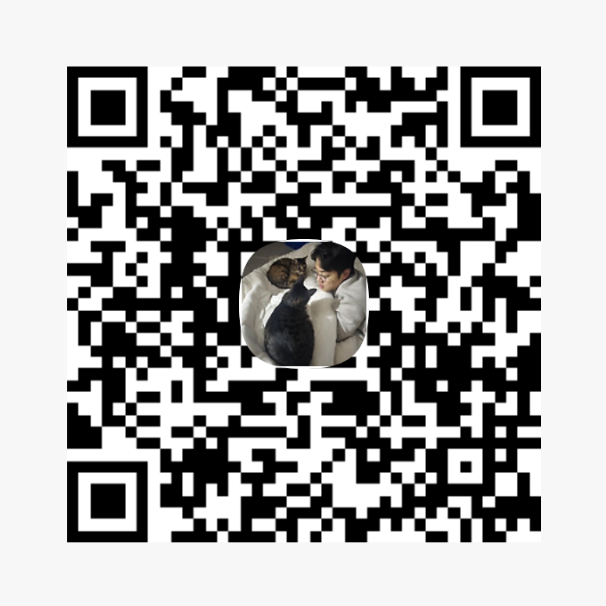
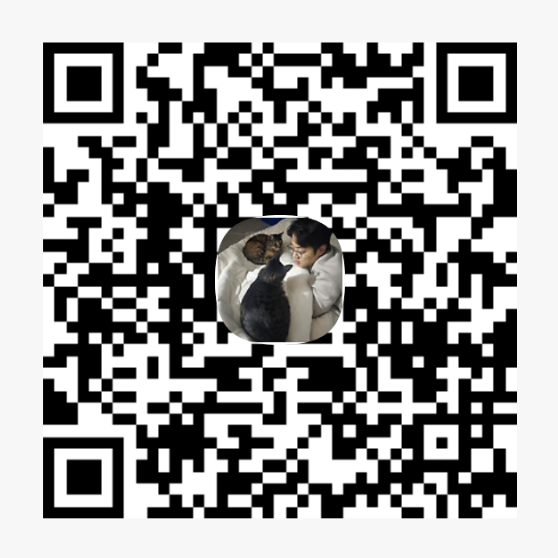
fix(app): QR 크롭 대칭 보정 + 릴리스 노트·새로워진 점에 QR 노출
- QR 에셋 재크롭: QR 중심 기준 정사각형 + 대칭 quiet zone
  (기존엔 한쪽으로 쏠리거나(카카오) 여백이 너무 빠듯(토스)했음)
- WhatsNewWindow: 노트 하단에 DonatePanel(QR) 인라인 — 기존 링크 대신 직접 노출,
  창 높이 560→680, 행 추가
- release.yml: GitHub 릴리스 노트 푸터에 카카오페이/토스 QR 이미지 표시
  (해당 tag 자산을 가리키는 raw URL로 고정)

diff --git a/Blink.App/Update/WhatsNewWindow.xaml b/Blink.App/Update/WhatsNewWindow.xaml
@@ -3,8 +3,9 @@
 <Window x:Class="Blink.App.Update.WhatsNewWindow"
         xmlns="http://schemas.microsoft.com/winfx/2006/xaml/presentation"
         xmlns:x="http://schemas.microsoft.com/winfx/2006/xaml"
+        xmlns:ctrl="clr-namespace:Blink.App.Controls"
         Title="Blink — 새로워진 점"
-        Width="520" Height="560"
+        Width="520" Height="680"
         WindowStyle="None" AllowsTransparency="True" Background="Transparent"
         ResizeMode="NoResize"
         WindowStartupLocation="CenterScreen"
@@ -81,6 +82,7 @@
                     <RowDefinition Height="Auto"/>
                     <RowDefinition Height="*"/>
                     <RowDefinition Height="Auto"/>
+                    <RowDefinition Height="Auto"/>
                 </Grid.RowDefinitions>
 
                 <!-- Title bar -->
@@ -124,16 +126,16 @@
                     </ScrollViewer>
                 </Border>
 
+                <!-- Donation: QR shown inline below the notes -->
+                <Border Grid.Row="3" Margin="28,16,28,0" Padding="0,16,0,0"
+                        BorderBrush="{DynamicResource Blink.Hairline}" BorderThickness="0,1,0,0">
+                    <ctrl:DonatePanel/>
+                </Border>
+
                 <!-- Footer -->
-                <Border Grid.Row="3" Margin="0,16,0,0" Background="{DynamicResource Blink.Surface2}"
+                <Border Grid.Row="4" Margin="0,16,0,0" Background="{DynamicResource Blink.Surface2}"
                         BorderBrush="{DynamicResource Blink.Hairline}" BorderThickness="0,1,0,0">
                     <Grid Margin="28,16">
-                        <TextBlock VerticalAlignment="Center" HorizontalAlignment="Left" FontSize="12.5">
-                            <Hyperlink Click="Donate_Click" TextDecorations="None"
-                                       Foreground="{DynamicResource Blink.TxtDim}">
-                                <Run Text="☕ 후원하기"/>
-                            </Hyperlink>
-                        </TextBlock>
                         <Button Style="{StaticResource PillBtnPrimary}" Content="확인"
                                 HorizontalAlignment="Right" MinWidth="96" Click="Close_Click"/>
                     </Grid>

diff --git a/Blink.App/Update/WhatsNewWindow.xaml.cs b/Blink.App/Update/WhatsNewWindow.xaml.cs
@@ -16,13 +16,6 @@ public partial class WhatsNewWindow : Window
 
     private void Close_Click(object sender, RoutedEventArgs e) => Close();
 
-    private void Donate_Click(object sender, RoutedEventArgs e)
-    {
-        var win = new DonateWindow { Owner = this };
-        win.Show();
-        win.Activate();
-    }
-
     private void TitleBar_MouseDown(object sender, MouseButtonEventArgs e)
     {
         if (e.ChangedButton == MouseButton.Left) DragMove();
